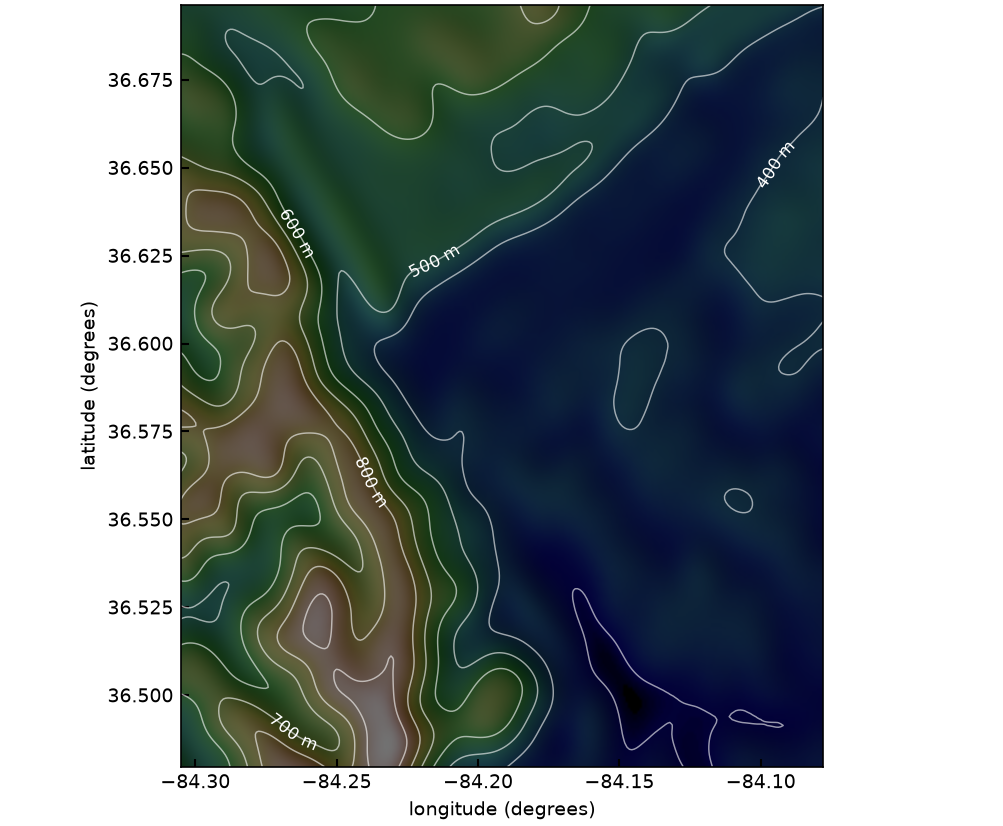
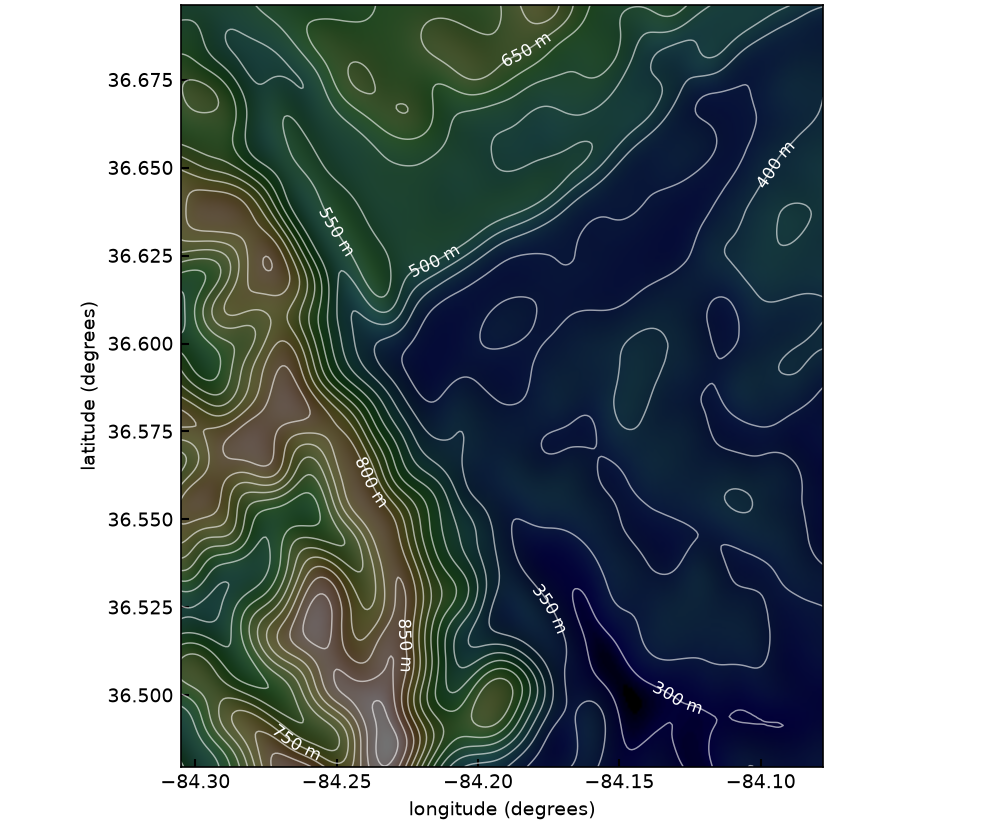
Contour the map every 50 m and label nine elevations

diff --git a/examples/example_20_topographic_map.py b/examples/example_20_topographic_map.py
@@ -4,7 +4,7 @@ Elevation from matplotlib's ``jacksboro_fault_dem.npz`` sample data, a digital
 elevation model near the Jacksboro fault in Tennessee, smoothed by a Gaussian
 about six cells wide so the contours are smooth enough to label, cropped to the
 escarpment, and shaded by a light from the northwest and darkened. Contours run
-every 100 m.
+every 50 m.
 ``ax.contour`` sets the direction of each contour path, and many run from right
 to left on screen, so every label is passed ``upright=True``.
 
@@ -29,28 +29,28 @@ from _style import data_axes, figure, sample_data, save
 
 # The standard deviation, in cells, of the Gaussian that smooths the terrain.
 SMOOTHING_CELLS = 6
-CONTOUR_INTERVAL_M = 100
+CONTOUR_INTERVAL_M = 50
 # The part of the model that is mapped, as (first row, last row, first column,
 # last column) counted from the south and west: the escarpment, whose contours
 # run long and simple.
 WINDOW = (40, 300, 130, 403)
 # The shortest contour, in points, that is labeled: shorter ones are closed
 # loops around a summit or a pit, or fragments at the edge.
-MIN_POINTS = 100
+MIN_POINTS = 150
 # Where along a contour a label may sit, as fractions of its length.
 CANDIDATE_POS = np.linspace(0.15, 0.85, 71)
 # The least distance, in degrees, from a label to the nearest other contour, so
 # a neighboring line does not run through the text.
-MIN_ROOM = 0.001
+MIN_ROOM = 0.0007
 # The least distance, in degrees, between two labels.
-MIN_LABEL_SEPARATION = 0.025
+MIN_LABEL_SEPARATION = 0.02
 # A label is about 0.02 degrees long. The stretch of contour that must be
 # straight is longer, so a bend just past the label's end does not crush its
 # last letter. A contour that turns by more than MAX_TURN_DEGREES in total
 # across that stretch, measured at TURN_SAMPLES points, is too curved for its
 # label.
 LABEL_LENGTH = 0.028
-MAX_TURN_DEGREES = 35
+MAX_TURN_DEGREES = 40
 TURN_SAMPLES = 10
 # The factor that darkens the hillshading, so white labels can be read on it.
 SHADE_DARKENING = 0.45
@@ -192,8 +192,7 @@ def make(images_dir):
             candidates.append((room, level, seg, pos))
     placed = []
     labeled_levels = set()
-    for _room, level, seg, pos in sorted(candidates,
-                                         key=lambda c: -len(c[2])):
+    for _room, level, seg, pos in sorted(candidates, key=lambda c: -c[0]):
         point = _point_at(seg, pos)
         if level in labeled_levels or any(
                 np.hypot(*(point - other)) < MIN_LABEL_SEPARATION

diff --git a/tests/test_examples.py b/tests/test_examples.py
@@ -85,7 +85,7 @@ def test_contour_figures_label_every_contour_upright(name, tmp_path,
                                                      monkeypatch):
     # ``ax.contour`` sets the direction of each path, and the labels of these
     # figures follow the paths as they come, which run either way on screen
-    # (4 of the 5 map labels read upright without ``upright=True``).
+    # (5 of the 9 map labels read upright without ``upright=True``).
     module = _load_example(name)
     labels = []
     real = module.curved_text

diff --git a/examples/README.md b/examples/README.md
@@ -13,12 +13,12 @@ scripts, see [Running the scripts](#running-the-scripts).
 
 The figure shows real terrain: elevation from matplotlib's
 `jacksboro_fault_dem.npz` sample data, a digital elevation model (a grid of
-ground heights) near the Jacksboro fault in Tennessee, with contours every 100 m.
+ground heights) near the Jacksboro fault in Tennessee, with contours every 50 m.
 A contour label is the classic label along a curve, and it needs the curve to
 be smooth. The script therefore smooths the terrain with a Gaussian filter six
 cells wide before it contours it, and maps the escarpment, where the contours run
 long and simple. Each contour is a path whose direction
-`ax.contour` chooses, and 4 of the 5 labels here sit on paths that run from
+`ax.contour` chooses, and 5 of the 9 labels here sit on paths that run from
 right to left on screen, so the script passes `upright=True` and every label
 reads left to right. The map is dark, and the labels and contour lines are
 white. The script places each label on the straightest stretch of its contour that
@@ -32,7 +32,7 @@ line, which runs through the text, so the reader sees which line it names. A
 `box` casing would hide the ends of that line, and a halo drawn on each glyph
 would overlap its neighbors.
 
-![Dark shaded relief map of the terrain near the Jacksboro fault, with longitude from 84.30 to 84.08 degrees west and latitude from 36.48 to 36.70 degrees north. Pale contour lines every 100 meters run from the upper right to the lower left along an escarpment between high ground at the left and a dark basin at the right. Five contours carry a white label placed on the contour line itself, one for each of 400, 500, 600, 700, and 800 meters. The last three sit on the winding contours of the ridge at the left. Every label reads left to right.](https://raw.githubusercontent.com/thiebes/curved-text/main/examples/images/20_topographic_map.png)
+![Dark shaded relief map of the terrain near the Jacksboro fault, with longitude from 84.30 to 84.08 degrees west and latitude from 36.48 to 36.70 degrees north. Pale contour lines every 50 meters run from the upper right to the lower left along an escarpment between high ground at the left and a dark basin at the right. Nine contours carry a white label placed on the contour line itself, one for each of 300, 350, 400, 500, 550, 650, 750, 800, and 850 meters. The labels at 750, 800, and 850 meters sit on the winding contours of the ridge at the left. Every label reads left to right.](https://raw.githubusercontent.com/thiebes/curved-text/main/examples/images/20_topographic_map.png)
 
 [example_20_topographic_map.py](https://github.com/thiebes/curved-text/blob/main/examples/example_20_topographic_map.py)
 
